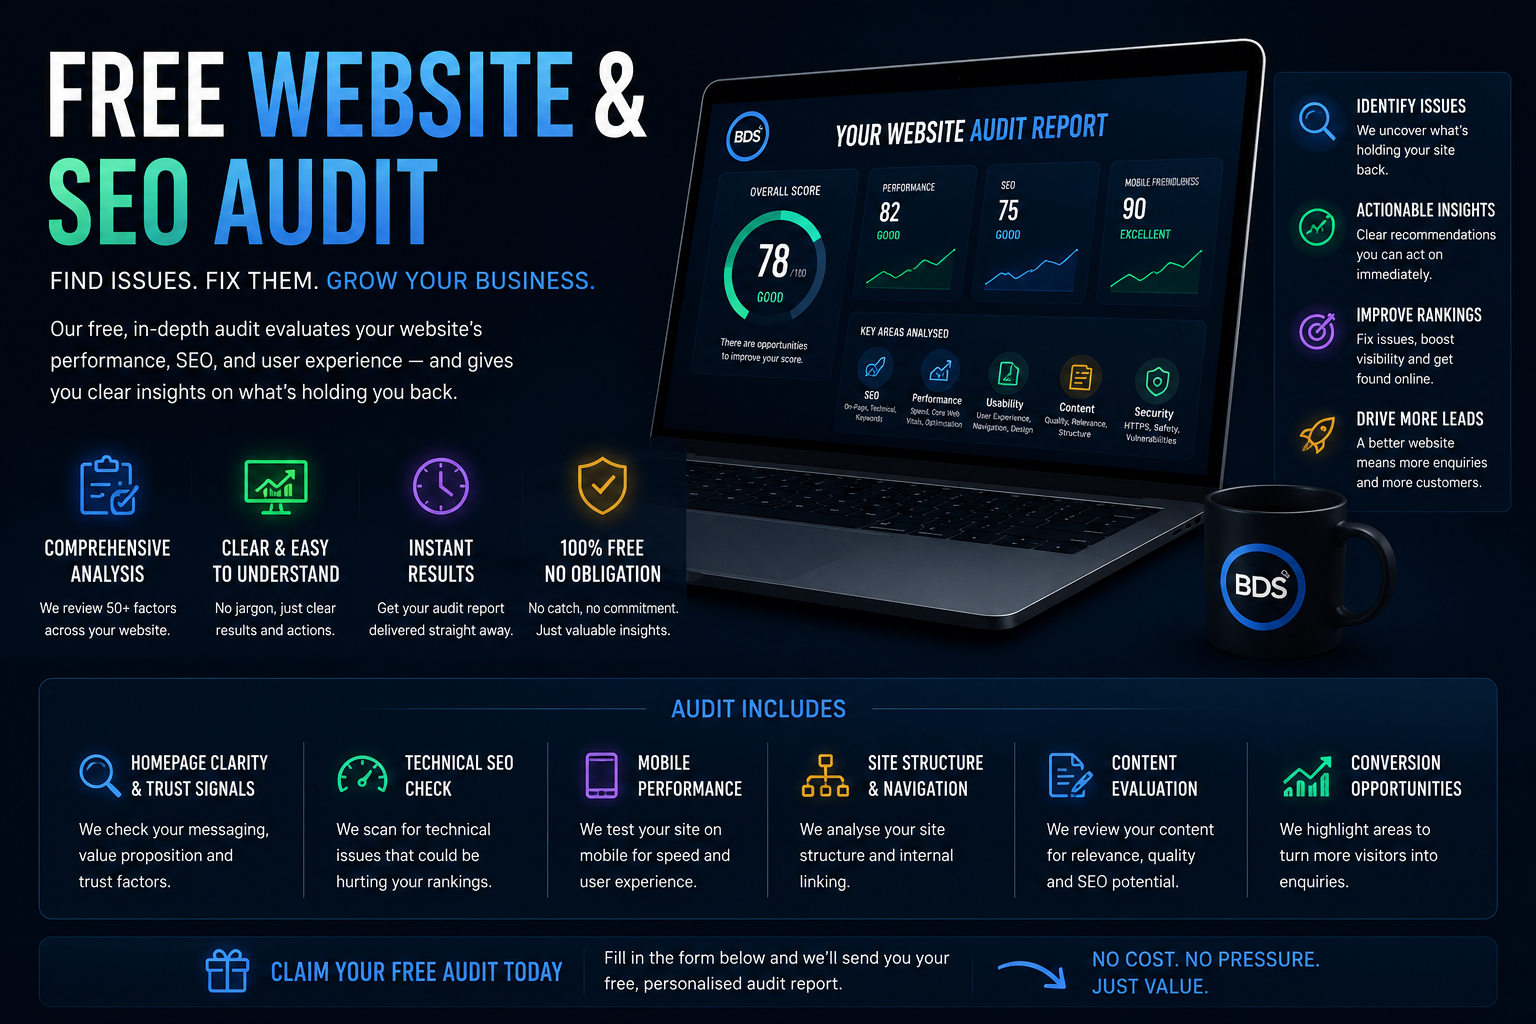
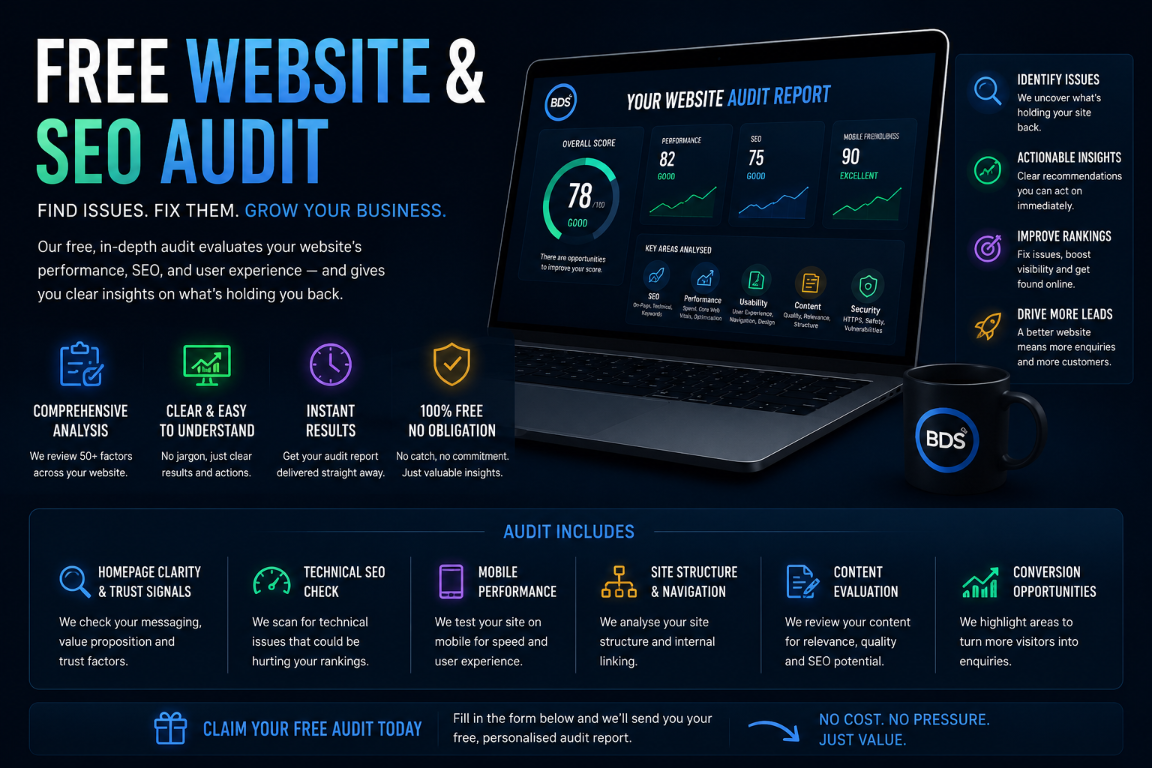
Update audit page image
Use audit.png as the Free Website & SEO Audit page card hero image with a page-specific style override.

diff --git a/assets/styles.css b/assets/styles.css
@@ -1195,6 +1195,12 @@ h1 {
     url("./seoservices.png");
 }
 
+.audit-page-card::before {
+  background-image:
+    linear-gradient(180deg, rgba(9, 18, 27, 0.2) 0%, rgba(9, 18, 27, 0.42) 100%),
+    url("./audit.png");
+}
+
 .service-grid {
   margin-top: 1rem;
   display: grid;

diff --git a/audit.html b/audit.html
@@ -73,7 +73,7 @@
     </header>
 
     <main class="page-main">
-      <div class="container page-card">
+      <div class="container page-card audit-page-card">
         <h1>Free Website &amp; SEO Audit</h1>
         <p>
           Get a practical, no-pressure audit covering visibility, user trust, technical performance,